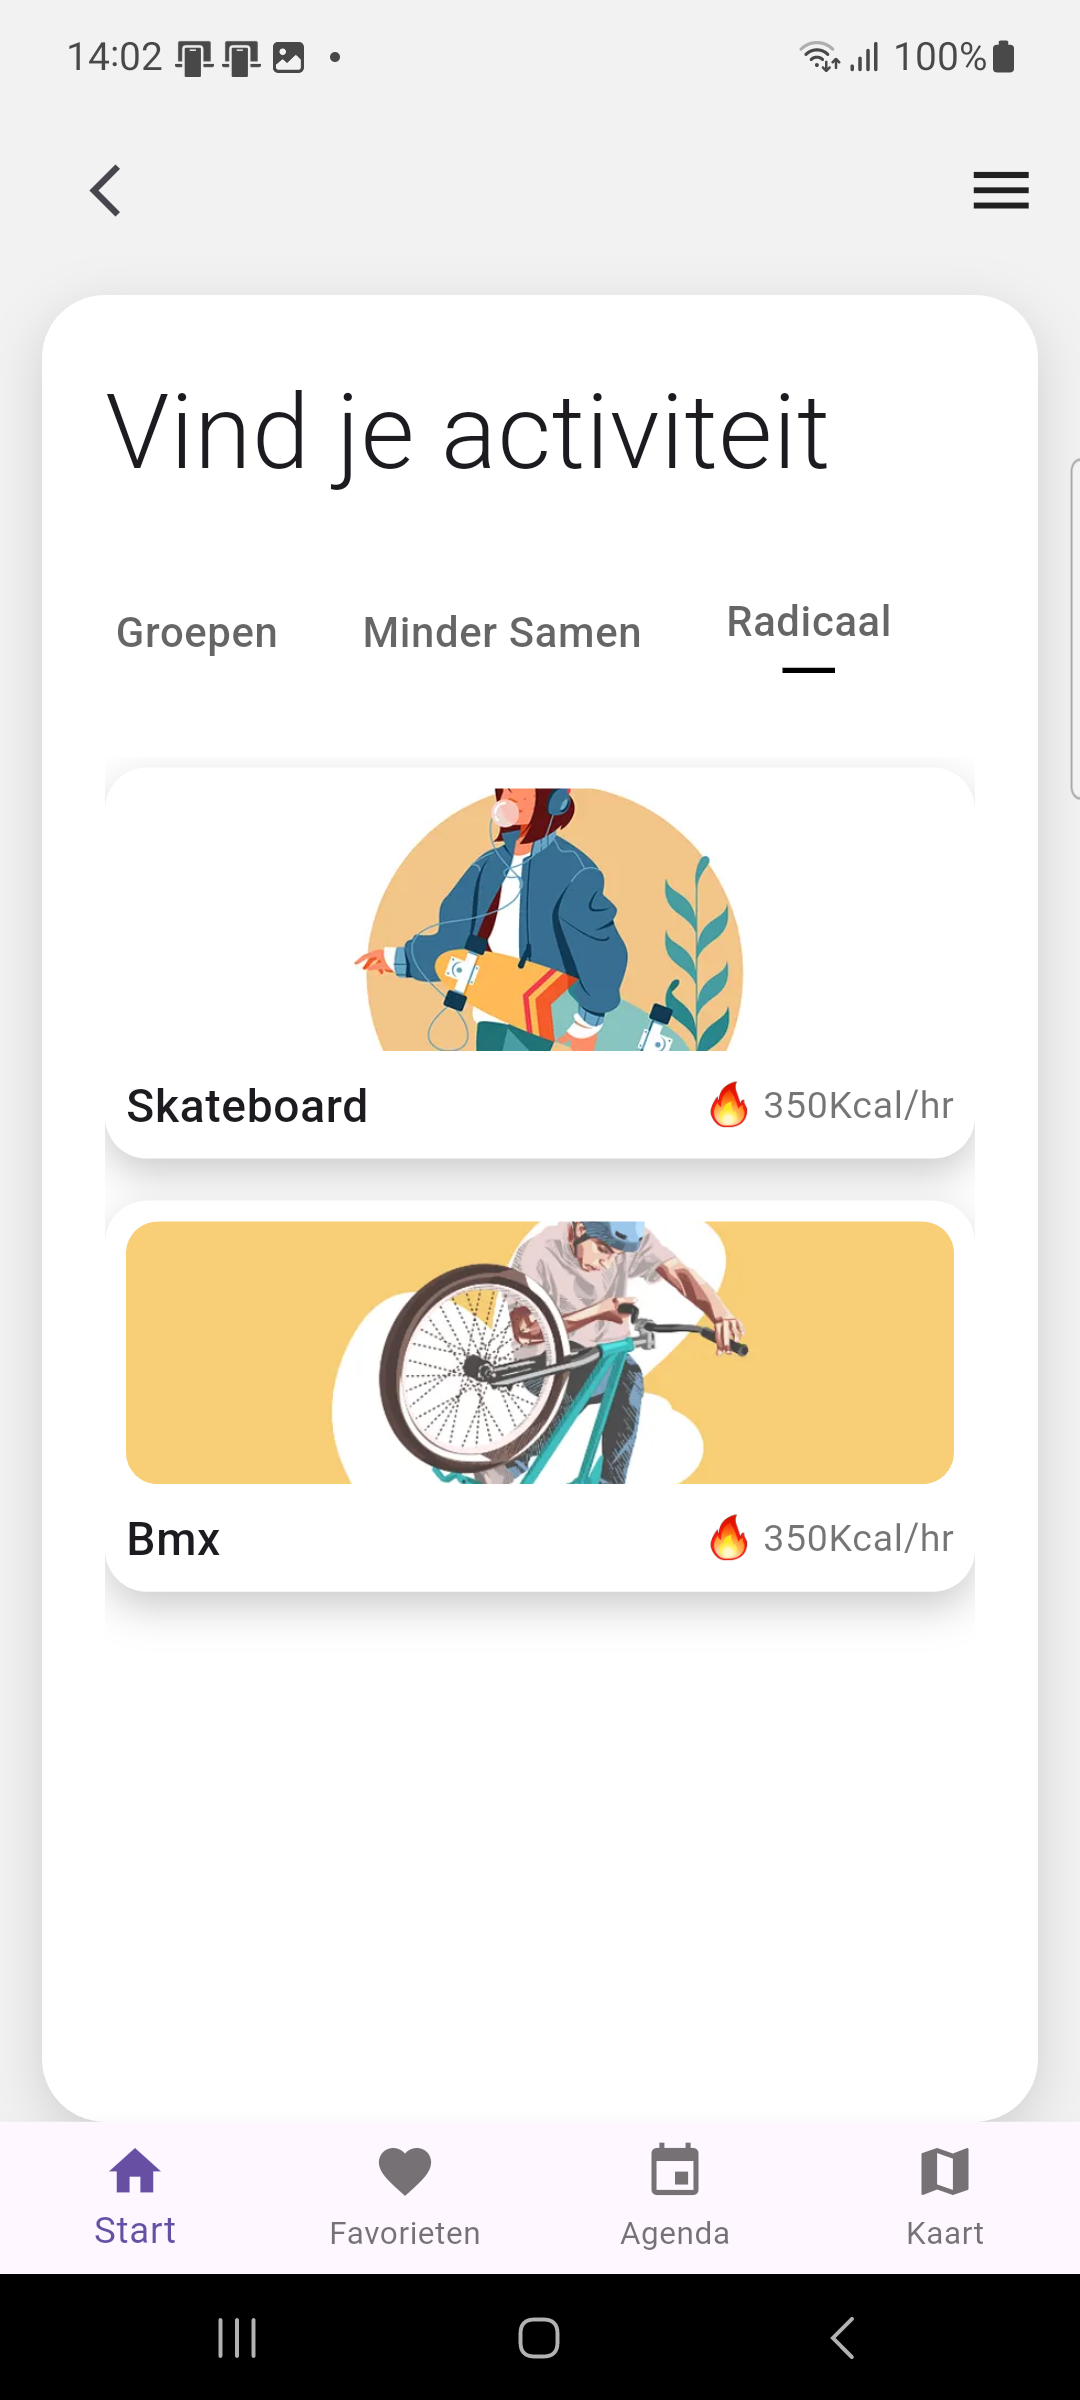
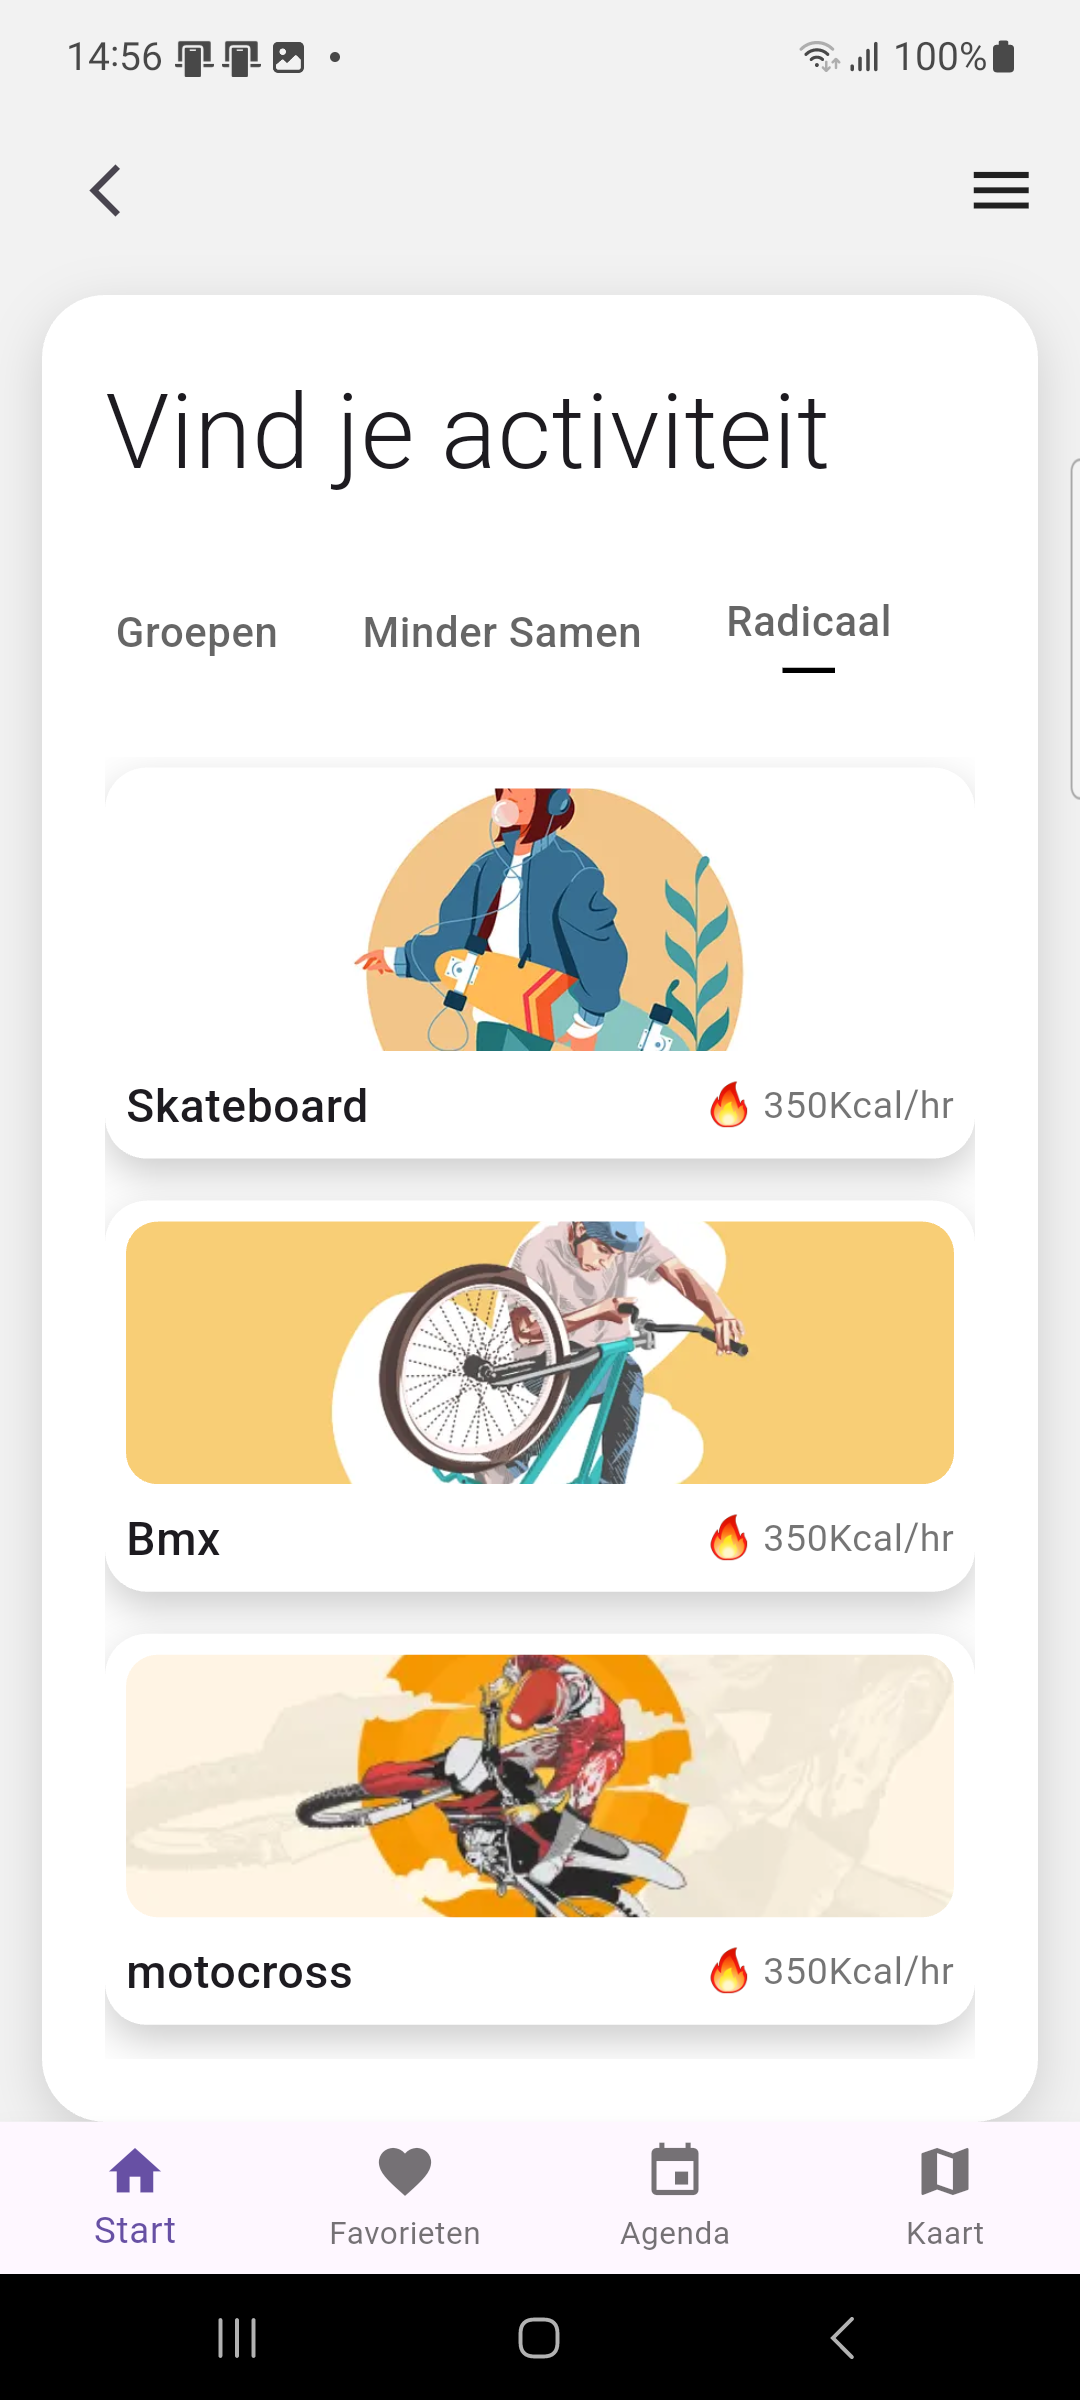
before_modularity_imrpovs

Changed region(s): [[0.0917, 0.6875, 0.8861, 0.875], [0.1222, 0.0, 0.1528, 0.0312]]

diff --git a/lib/screens/activities/sports_screens/motocross.dart b/lib/screens/activities/sports_screens/motocross.dart
@@ -8,8 +8,8 @@ class MotocrossScreen extends StatelessWidget {
   @override
   Widget build(BuildContext context) {
     return GenericSportScreen(
-      title: 'canoing'.tr(),
-      sportType: 'canoe',
+      title: 'motocross_area'.tr(),
+      sportType: 'motocross',
     );
   }
 }
